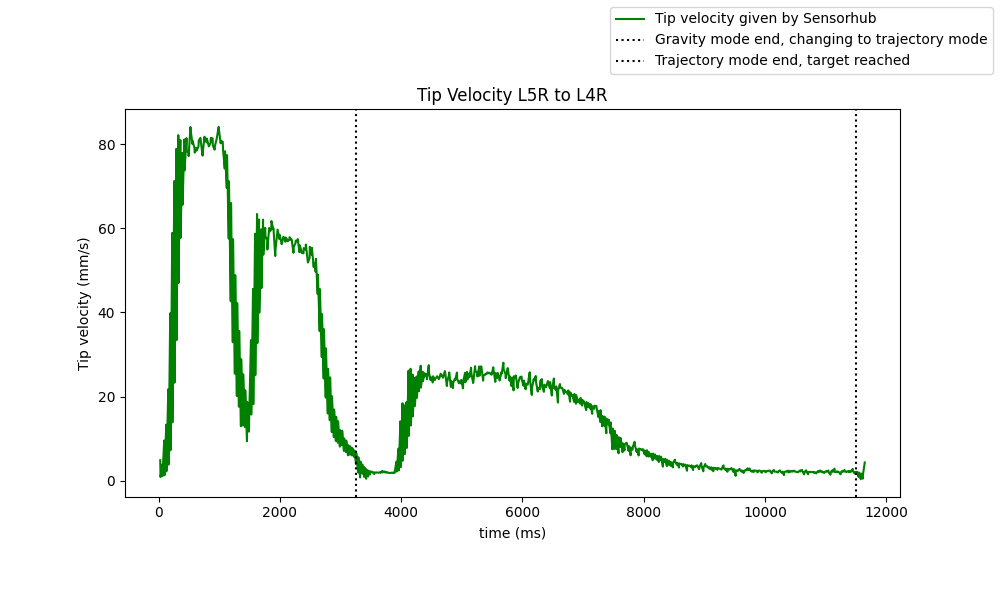
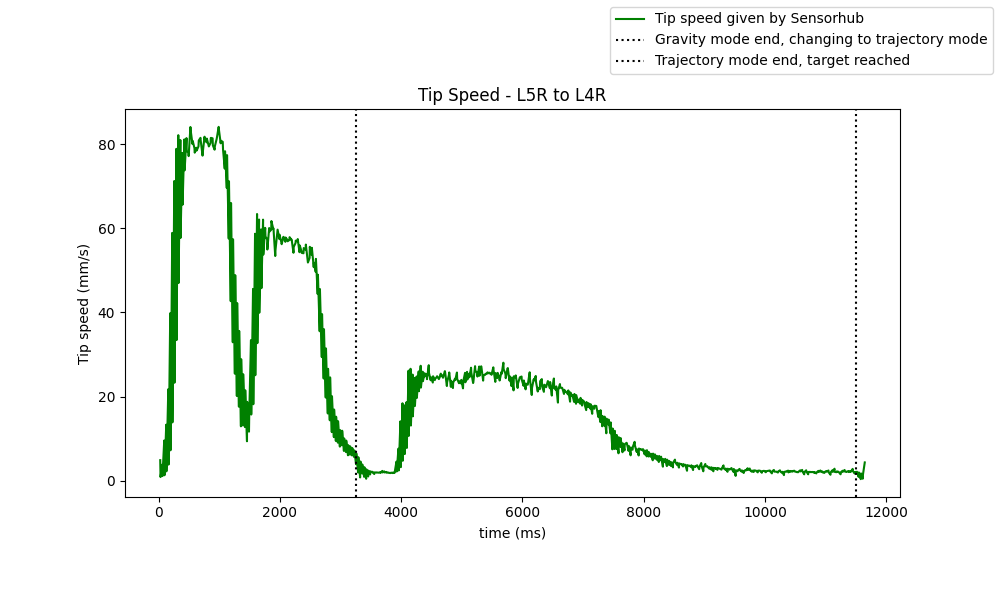
update tip plotting, use speed instead of velocity

Changed region(s): [[0.682, 0.0, 0.868, 0.06], [0.403, 0.15, 0.62, 0.18], [0.062, 0.39, 0.093, 0.6]]

diff --git a/GPS speed increase tech memo/plot tip velocities.py b/GPS speed increase tech memo/plot tip velocities.py
@@ -86,15 +86,15 @@ def plot(data, name):
     '''
     fig, ax = plt.subplots(1, 1, figsize=(10,6))
 
-    # ax.plot(data.controller_time, data.controller_vel, color="r", label="Tip velocity given by GMAS")
-    ax.plot(data.sensorhub_time, data.sensorhub_vel, color="g", label="Tip velocity given by Sensorhub")
+    # ax.plot(data.controller_time, data.controller_vel, color="r", label="Tip speed given by GMAS")
+    ax.plot(data.sensorhub_time, data.sensorhub_vel, color="g", label="Tip speed given by Sensorhub")
 
     ax.axvline(data.trajectory_mode_start_time, linestyle=":", color="k", label="Gravity mode end, changing to trajectory mode")
     ax.axvline(data.trajectory_mode_end_time, linestyle=":", color="k", label="Trajectory mode end, target reached")
     ax.set_box_aspect(0.5)
     ax.set_xlabel("time (ms)")
-    ax.set_ylabel("Tip velocity (mm/s)")
-    ax.set_title("Tip Velocity " + name)
+    ax.set_ylabel("Tip speed (mm/s)")
+    ax.set_title("Tip Speed - " + name)
 
     handles, labels = ax.get_legend_handles_labels()
     fig.legend(handles, labels, loc='upper right')

diff --git a/GPS speed increase tech memo/plot_axis_pos_and_vel and tip pos.py b/GPS speed increase tech memo/plot_axis_pos_and_vel and tip pos.py
@@ -142,7 +142,7 @@ class Data:
         self.trajectory_mode_end_time = trajectory_mode_end_time
 
 if __name__ == "__main__":
-    name = "L5R to L1L"
+    name = "L5R to L5L"
 
     mine = read(name + "/mine.txt")
     original = read(name + "/original.txt")
